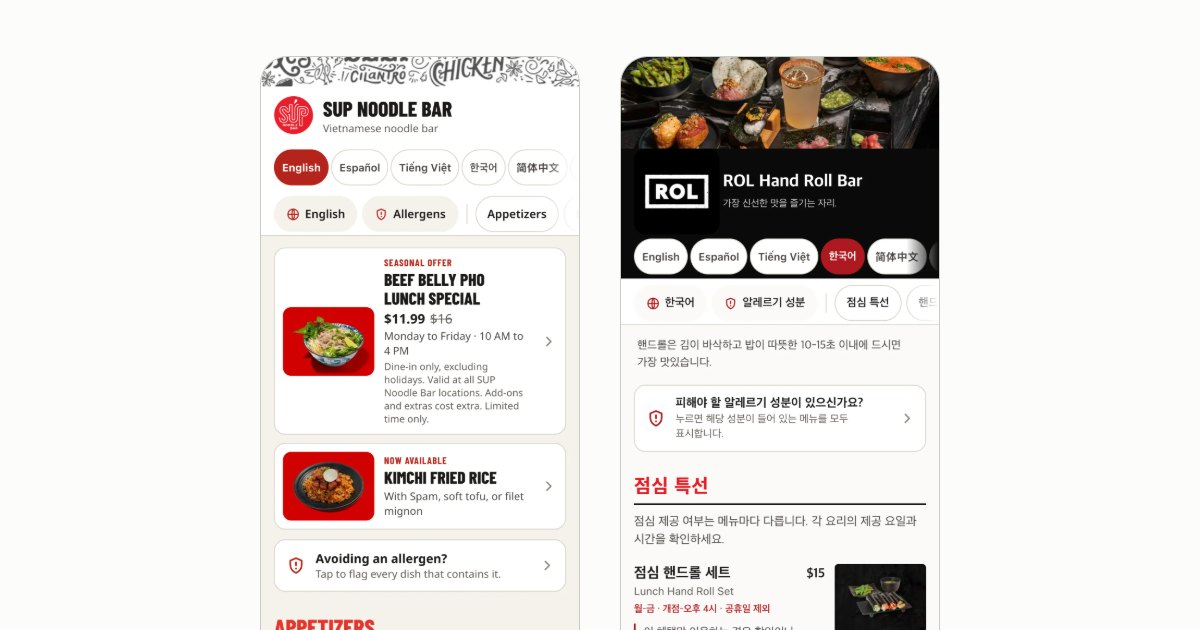
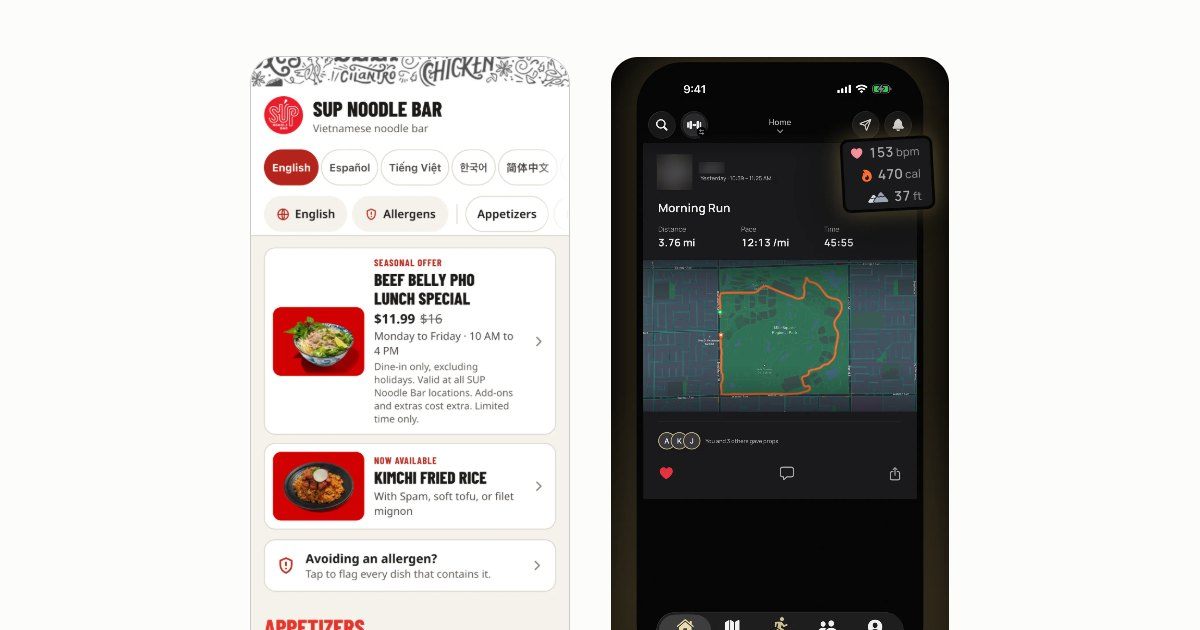
Show the menu and Fyt picture in the home, Services and request link previews

diff --git a/src/index.html b/src/index.html
@@ -13,7 +13,7 @@
   <meta property="og:image" content="{{site.url}}assets/og.jpg">
   <meta property="og:image:width" content="1200">
   <meta property="og:image:height" content="630">
-  <meta property="og:image:alt" content="Three phones showing restaurant menus in Korean, English and right-to-left Arabic.">
+  <meta property="og:image:alt" content="Two phone screens: a restaurant menu in English and a run in Fyt’s group feed.">
   <meta name="twitter:card" content="summary_large_image">
   <script type="application/ld+json">{"@context": "https://schema.org", "@type": "WebSite", "name": "{{person.name}}", "url": "{{site.url}}"}</script>
   <script type="application/ld+json">{"@context": "https://schema.org", "@type": "Person", "name": "{{person.name}}", "url": "{{site.url}}", "jobTitle": "Freelance full-stack developer", "sameAs": ["{{links.github}}", "{{links.app_store_developer}}"]}</script>

diff --git a/src/services/index.html b/src/services/index.html
@@ -13,7 +13,7 @@
   <meta property="og:image" content="{{site.url}}assets/og-services.jpg">
   <meta property="og:image:width" content="1200">
   <meta property="og:image:height" content="630">
-  <meta property="og:image:alt" content="Two phone screens of restaurant menus with dish photos and prices, one in English and one in Korean.">
+  <meta property="og:image:alt" content="Two phone screens: a restaurant menu in English and a run in Fyt’s group feed.">
   <meta name="twitter:card" content="summary_large_image">
 </head>
 <body>

diff --git a/src/request/index.html b/src/request/index.html
@@ -13,7 +13,7 @@
   <meta property="og:image" content="{{site.url}}assets/og.jpg">
   <meta property="og:image:width" content="1200">
   <meta property="og:image:height" content="630">
-  <meta property="og:image:alt" content="Three phones showing restaurant menus in Korean, English and right-to-left Arabic.">
+  <meta property="og:image:alt" content="Two phone screens: a restaurant menu in English and a run in Fyt’s group feed.">
   <meta name="twitter:card" content="summary_large_image">
 </head>
 <body>
